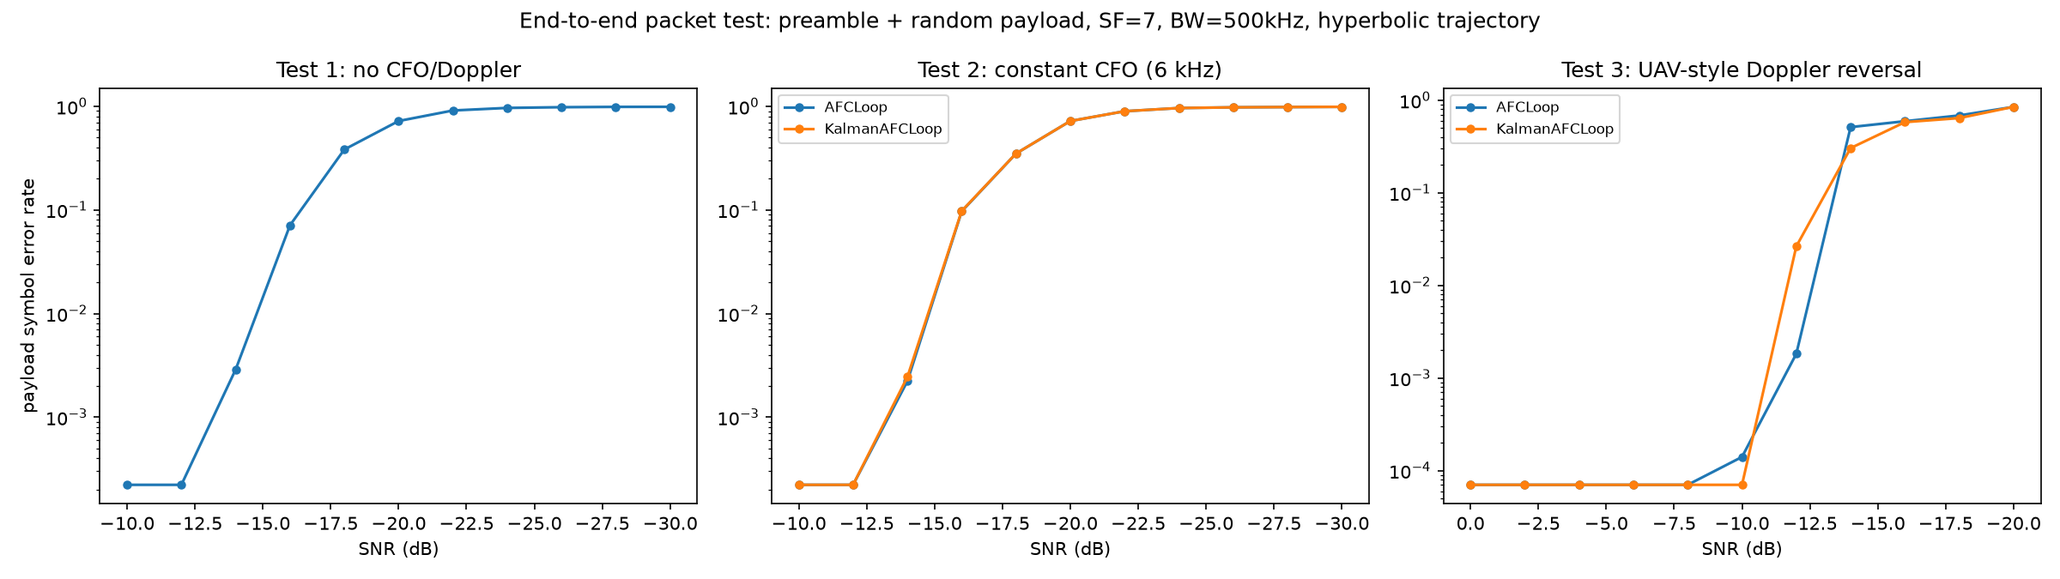
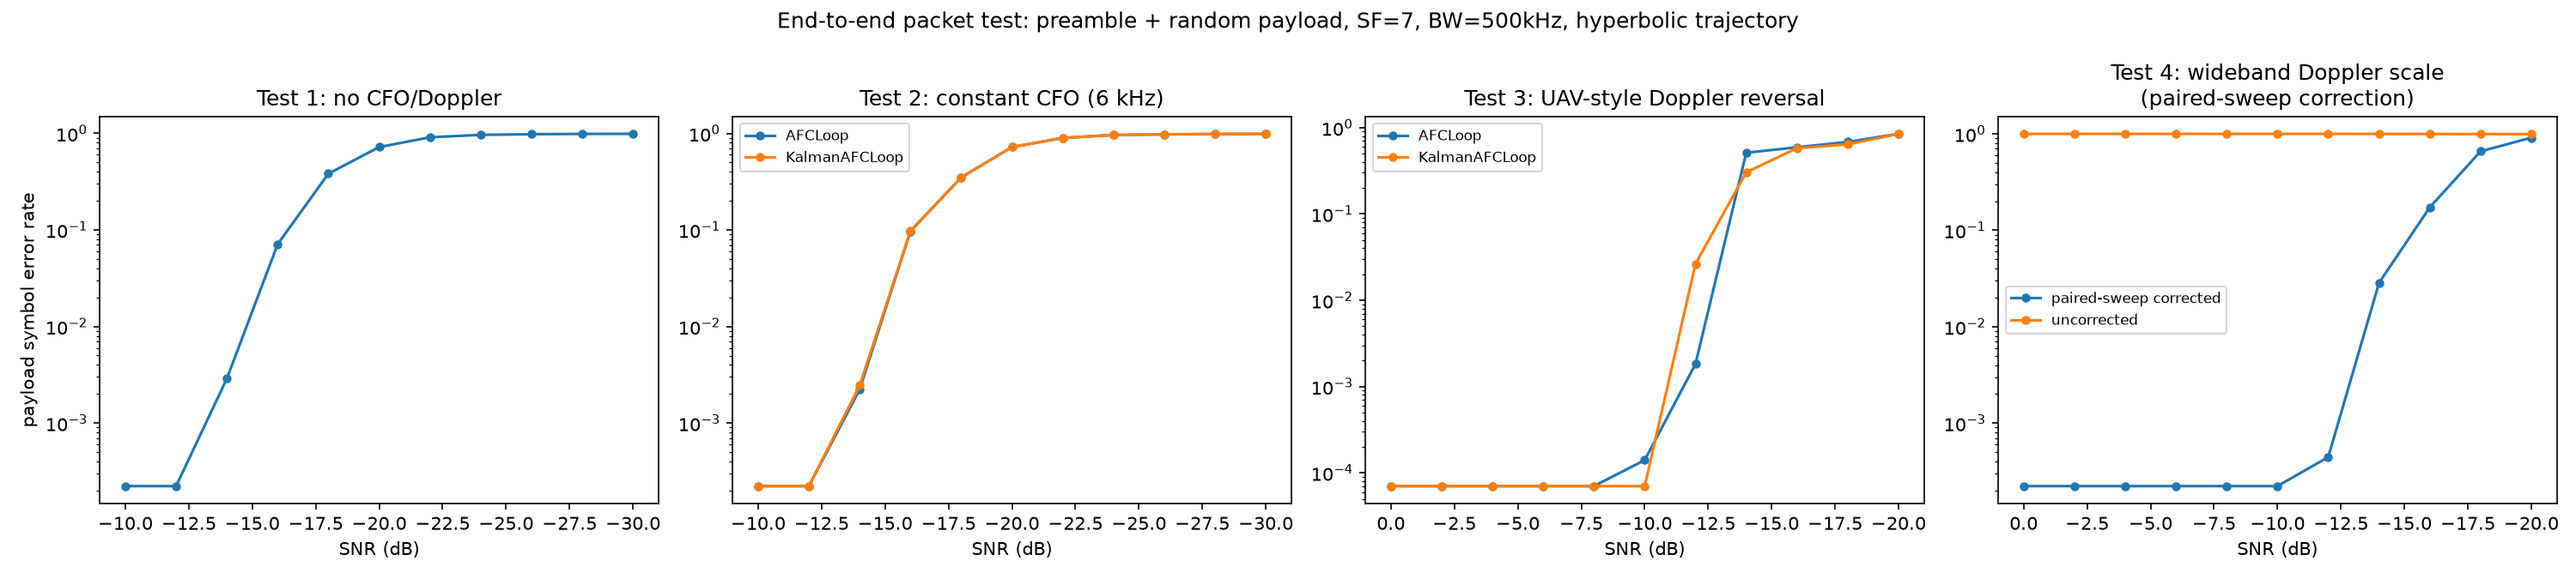
Add Test 4: paired-sweep Doppler correction in the end-to-end packet test
Extends examples/packet_experiments.py with a fourth packet-level test,
checking whether nlfsc_lora.paired_sweep's DHFM-style paired opposite-sweep
Doppler correction (added in the previous commit, validated so far only at
the single-symbol level) holds up in a full packet: preamble framing, an
SNR sweep, the works.

Test 4 uses a genuinely different channel model from tests 1-3 (a wideband
Doppler time-scale, alpha=1.05 -- over 10x past this configuration's own
half-bin failure threshold -- rather than a narrowband constant CFO) and a
different correction mechanism (paired_sweep.acquire_doppler_scale on a
single paired up/down-sweep m=0 preamble pair, no multi-burst averaging
needed, unlike Test 2's acquisition). Measured directly: an uncorrected
receiver fails on essentially every payload symbol at every SNR tested;
correcting with the acquired alpha before an ordinary single-sweep decode
restores a clean waterfall, error-free from 40dB down to about -12dB SNR,
degrading below roughly -14dB as the paired-sweep measurement's own
coherent-integration noise floor is reached.

20_packet_level_validation.png is now a 4-panel figure. Updated
NARRATIVE.md (new Sec7.4), PAPER.md (Sec7.4), and README.md to match.
Claude-Session: https://claude.ai/code/session_01JYjBKKycGVqv95onyZBz3b

diff --git a/examples/packet_experiments.py b/examples/packet_experiments.py
@@ -1,8 +1,9 @@
 """End-to-end packet-level validation, not just single-symbol statistics: build
-an actual packet (a short preamble of repeated base symbols, LoRa-style, then a
-random payload), send it through the channel, and confirm the receiver -- this
-project's dechirp/demodulation plus the AFC/Kalman tracking built in afc.py --
-recovers the payload correctly. Three progressively harder tests, as requested:
+an actual packet (a short preamble, LoRa-style, then a random payload), send
+it through the channel, and confirm the receiver -- this project's
+dechirp/demodulation plus its Doppler-correction machinery (afc.py for
+tests 1-3, paired_sweep.py for test 4) -- recovers the payload correctly.
+Four progressively harder tests, as requested:
 
   Test 1: no CFO/Doppler at all -- the baseline. Correct decoding, repeated
           many times, then a symbol-error-rate sweep as SNR drops.
@@ -16,21 +17,34 @@ recovers the payload correctly. Three progressively harder tests, as requested:
           the sign reversal to unfold slowly enough to stay trackable (see
           19_afc_rate_of_change_limit.png's ~55 Hz/burst cliff), which is why
           this test's packet is much longer than tests 1-2's.
+  Test 4: a wideband ("true") Doppler time-scale, a different channel model
+          from tests 1-3's narrowband (constant-CFO) Doppler entirely --
+          acquired not from afc.py's machinery but from
+          nlfsc_lora.paired_sweep's DHFM-style paired opposite-sweep preamble
+          (one up-sweep burst, one down-sweep burst, both m=0), the real
+          active-sonar technique examples/run_experiments.py's
+          21_paired_sweep_doppler_correction.png already validated at the
+          single-symbol level -- this test checks it holds up in a full
+          packet, not just isolated symbols.
 
 SF=7, BW=500 kHz throughout -- a standard LoRa bandwidth option this project
 hadn't exercised before (everything else in run_experiments.py uses 125 kHz).
-The preamble is a simplified stand-in for real LoRa framing: N_PREAMBLE copies
-of the unshifted (m=0) base symbol, the same concept as LoRa's preamble
-up-chirps, generalized to any trajectory shape -- not a bit-accurate
-reproduction of the real sync-word/SFD convention, which doesn't bear on the
-trajectory-shape question this project is actually about.
+Tests 1-3's preamble is a simplified stand-in for real LoRa framing:
+N_PREAMBLE copies of the unshifted (m=0) base symbol, the same concept as
+LoRa's preamble up-chirps, generalized to any trajectory shape -- not a
+bit-accurate reproduction of the real sync-word/SFD convention, which doesn't
+bear on the trajectory-shape question this project is actually about. Test 4
+uses a different, shorter preamble (one up-sweep + one down-sweep m=0 burst,
+paired_sweep.py's own acquisition unit) -- see its own docstring.
 
-Reuses nlfsc_lora/afc.py::run_afc_sequence unchanged: a "packet" here is just
-a longer true_symbols sequence (preamble zeros + random payload) fed through
-the exact same acquire-then-track pipeline already built and tested for
-Chapter 6's AFC figures -- no new tracking logic, only a new way of framing
-and grading what's fed into it (only the payload portion counts toward SER;
-the preamble's own decode is incidental).
+Tests 1-3 reuse nlfsc_lora/afc.py::run_afc_sequence unchanged: a "packet"
+there is just a longer true_symbols sequence (preamble zeros + random
+payload) fed through the exact same acquire-then-track pipeline already
+built and tested for Chapter 6's AFC figures -- no new tracking logic, only
+a new way of framing and grading what's fed into it (only the payload
+portion counts toward SER; the preamble's own decode is incidental). Test 4
+uses nlfsc_lora/paired_sweep.py instead -- a different correction mechanism
+for a different (wideband, not narrowband) Doppler model entirely.
 
 Run with: python examples/packet_experiments.py
 """
@@ -42,7 +56,10 @@ import matplotlib.pyplot as plt
 import numpy as np
 
 from nlfsc_lora.afc import AFCLoop, KalmanAFCLoop, measurement_noise_for, run_afc_sequence
-from nlfsc_lora.chirp import ChirpConfig
+from nlfsc_lora.channel import apply_doppler_scale, awgn
+from nlfsc_lora.chirp import ChirpConfig, base_waveform, symbol_waveform
+from nlfsc_lora.paired_sweep import acquire_doppler_scale, correct_doppler_scale, reversed_trajectory
+from nlfsc_lora.receiver import fft_correlation_demod
 from nlfsc_lora.trajectories import TRAJECTORIES, hyperbolic_center_freq
 
 OUT_DIR = os.path.join(os.path.dirname(__file__), "output")
@@ -60,6 +77,17 @@ def make_cfg(traj: str) -> tuple:
     f_center = hyperbolic_center_freq(BANDWIDTH) if traj == "hyperbolic" else 0.0
     cfg = ChirpConfig(sf=SF, bandwidth=BANDWIDTH, sample_rate=OVERSAMPLING * BANDWIDTH, g=g, f_center=f_center)
     return cfg, dg
+
+
+def make_cfg_pair(q: float = 1.0 / 3.0) -> tuple:
+    """Up-sweep and down-sweep hyperbolic ChirpConfigs sharing the same band,
+    for Test 4's paired-sweep preamble (nlfsc_lora.paired_sweep)."""
+    g_up, dg_up = TRAJECTORIES["hyperbolic"]
+    g_down = reversed_trajectory(g_up)
+    f_center = hyperbolic_center_freq(BANDWIDTH, q)
+    cfg_up = ChirpConfig(sf=SF, bandwidth=BANDWIDTH, sample_rate=OVERSAMPLING * BANDWIDTH, g=g_up, f_center=f_center)
+    cfg_down = ChirpConfig(sf=SF, bandwidth=BANDWIDTH, sample_rate=OVERSAMPLING * BANDWIDTH, g=g_down, f_center=f_center)
+    return cfg_up, cfg_down
 
 
 def run_packet(cfg, dg, n_payload: int, true_cfo_sequence, snr_db: float, seed: int,
@@ -250,16 +278,94 @@ def test3_uav_doppler():
     return snr_range, results
 
 
-def plot_all(t1, t2, t3):
+def run_packet_paired_sweep(cfg_up, cfg_down, n_payload: int, alpha_true: float, q: float, snr_db: float, seed: int):
+    """One packet under Test 4's channel model: a wideband Doppler time-scale
+    alpha_true (channel.apply_doppler_scale), not tests 1-3's narrowband
+    constant CFO. Preamble is a single paired-sweep pair (one up-sweep, one
+    down-sweep, both m=0) -- already validated robust to well below -10dB SNR
+    with just one pair (nlfsc_lora.paired_sweep, 21_paired_sweep_doppler_correction.png),
+    unlike sync.py's joint_cfo_symbol_search acquisition which needed several
+    preamble bursts averaged together (Test 2). Returns both the paired-sweep-
+    corrected and the uncorrected payload decode, so the same packet-level
+    comparison 21 already made at the single-symbol level can be checked here
+    too."""
+    rng = np.random.default_rng(seed)
+    rx_pre_up = awgn(apply_doppler_scale(base_waveform(cfg_up), alpha_true), snr_db, rng)
+    rx_pre_down = awgn(apply_doppler_scale(base_waveform(cfg_down), alpha_true), snr_db, rng)
+    alpha_hat = acquire_doppler_scale(rx_pre_up, rx_pre_down, cfg_up, cfg_down, q)
+
+    payload = rng.integers(0, cfg_up.M, n_payload)
+    decoded_corrected = np.empty(n_payload, dtype=int)
+    decoded_uncorrected = np.empty(n_payload, dtype=int)
+    for i, m_true in enumerate(payload):
+        rx = awgn(apply_doppler_scale(symbol_waveform(cfg_up, int(m_true)), alpha_true), snr_db, rng)
+        decoded_uncorrected[i] = fft_correlation_demod(rx, cfg_up)
+        decoded_corrected[i] = fft_correlation_demod(correct_doppler_scale(rx, alpha_hat), cfg_up)
+    return decoded_corrected, decoded_uncorrected, payload
+
+
+def test4_wideband_doppler_scale():
+    """Test 4: a wideband Doppler time-scale (not tests 1-3's narrowband
+    constant CFO), corrected with nlfsc_lora.paired_sweep's DHFM-style paired
+    opposite-sweep preamble rather than afc.py's machinery -- the real
+    active-sonar technique from "How Real HFM Sonar and Radar Systems
+    Actually Handle Doppler" / examples/run_experiments.py's
+    21_paired_sweep_doppler_correction.png, now checked in a full packet
+    rather than isolated symbols.
+
+    alpha_true=1.05 is comfortably past this configuration's own half-bin
+    failure threshold (~1.004, from the same n_samples/M relationship
+    08_lora_ser_vs_doppler_scale.png documents) -- an uncorrected receiver
+    should fail on essentially every payload symbol."""
+    print("\n=== Test 4: wideband Doppler scale, paired-sweep correction ===")
+    q = 1.0 / 3.0
+    cfg_up, cfg_down = make_cfg_pair(q)
+    alpha_true = 1.05
+    print(f"alpha_true={alpha_true} (half-bin failure threshold at this SF/BW is only "
+          f"~{1.0 + 1.0 / (2 * cfg_up.M):.4f})")
+
+    total_corrected, total_uncorrected = 0, 0
+    n_trials_check = 100
+    for t in range(n_trials_check):
+        dec_c, dec_u, payload = run_packet_paired_sweep(cfg_up, cfg_down, N_PAYLOAD, alpha_true, q, snr_db=40.0, seed=t)
+        total_corrected += int(np.sum(dec_c != payload))
+        total_uncorrected += int(np.sum(dec_u != payload))
+    print(f"noiseless-ish (40dB) correctness check: corrected {total_corrected} errors, "
+          f"uncorrected {total_uncorrected} errors, out of {n_trials_check * N_PAYLOAD} across {n_trials_check} packets")
+    assert total_corrected == 0, "Test 4 baseline should decode correctly once paired-sweep corrected"
+    assert total_uncorrected > 0.9 * n_trials_check * N_PAYLOAD, \
+        "an uncorrected receiver should fail on essentially every payload symbol at this alpha"
+
+    snr_range = np.arange(-20, 2, 2)
+    n_trials = 150
+    t0 = time.time()
+    ser_corrected = np.empty(len(snr_range))
+    ser_uncorrected = np.empty(len(snr_range))
+    for i, snr_db in enumerate(snr_range):
+        errs_c, errs_u = 0, 0
+        for t in range(n_trials):
+            dec_c, dec_u, payload = run_packet_paired_sweep(cfg_up, cfg_down, N_PAYLOAD, alpha_true, q, snr_db, seed=t)
+            errs_c += int(np.sum(dec_c != payload))
+            errs_u += int(np.sum(dec_u != payload))
+        total = n_trials * N_PAYLOAD
+        ser_corrected[i] = errs_c / total
+        ser_uncorrected[i] = errs_u / total
+    print(f"SER sweep done in {time.time()-t0:.1f}s")
+    return snr_range, {"paired-sweep corrected": ser_corrected, "uncorrected": ser_uncorrected}
+
+
+def plot_all(t1, t2, t3, t4):
     os.makedirs(OUT_DIR, exist_ok=True)
     snr1, ser1 = t1
     snr2, res2 = t2
     snr3, res3 = t3
+    snr4, res4 = t4
     floor1 = 1.0 / (150 * N_PAYLOAD)
     floor2 = floor1
     floor3 = 1.0 / (20 * 712)
+    floor4 = 1.0 / (150 * N_PAYLOAD)
 
-    fig, axes = plt.subplots(1, 3, figsize=(16, 4.5))
+    fig, axes = plt.subplots(1, 4, figsize=(20, 4.5))
     axes[0].plot(snr1, np.maximum(ser1, floor1), marker="o", ms=4)
     axes[0].set(xlabel="SNR (dB)", ylabel="payload symbol error rate", yscale="log",
                 title="Test 1: no CFO/Doppler")
@@ -274,6 +380,11 @@ def plot_all(t1, t2, t3):
     axes[2].set(xlabel="SNR (dB)", yscale="log", title="Test 3: UAV-style Doppler reversal")
     axes[2].legend(fontsize=8)
 
+    for name, ser in res4.items():
+        axes[3].plot(snr4, np.maximum(ser, floor4), marker="o", ms=4, label=name)
+    axes[3].set(xlabel="SNR (dB)", yscale="log", title="Test 4: wideband Doppler scale\n(paired-sweep correction)")
+    axes[3].legend(fontsize=8)
+
     for ax in axes:
         ax.invert_xaxis()  # read left-to-right as a channel degrading over time, matching 14_ser_vs_snr_all_shapes.png
 
@@ -287,7 +398,8 @@ def main():
     t1 = test1_no_doppler()
     t2 = test2_constant_doppler()
     t3 = test3_uav_doppler()
-    plot_all(t1, t2, t3)
+    t4 = test4_wideband_doppler_scale()
+    plot_all(t1, t2, t3, t4)
     print(f"\nWrote figure to {OUT_DIR}/20_packet_level_validation.png")
 
 

diff --git a/NARRATIVE.md b/NARRATIVE.md
@@ -808,8 +808,9 @@ project's specific simulation.
 Everything so far has been checked symbol by symbol, or burst by burst in
 isolation. A real receiver has to do all of it at once: recognize a
 packet, decode a payload correctly, and if there's Doppler, track it
-through the whole thing. Three tests, each harder than the last, all at
-SF=7 and 500 kHz bandwidth — a bandwidth this project hadn't used before
+through the whole thing. Four tests, each harder than the last (or, for
+the fourth, just a different channel model entirely), all at SF=7 and
+500 kHz bandwidth — a bandwidth this project hadn't used before
 (everything earlier used 125 kHz).
 
 The packet itself is a simplified stand-in for real LoRa framing: a short
@@ -826,7 +827,7 @@ every payload symbol comes back correct, every time — 200 packets,
 6000 payload symbols, zero errors. Dropping the SNR reproduces the same
 waterfall shape established back in Chapter 4:
 
-![Payload symbol error rate vs. SNR for all three packet tests](pictures/20_packet_level_validation.png)
+![Payload symbol error rate vs. SNR for all four packet tests](pictures/20_packet_level_validation.png)
 
 *(Left panel.)* Nothing new here mathematically — it's the same decoder as
 always — but it confirms the whole pipeline (preamble, payload framing,
@@ -938,6 +939,32 @@ same processing gain the rest of the receiver already relies on, dual-edge
 Doppler sign reversal, at the same kind of negative SNR this project's
 other packet tests already operate at — not stalling out at the edge of
 the noise floor the way the original measurement quietly did.
+
+### 7.4 A wideband Doppler scale, corrected the DHFM way
+
+A genuinely different channel model from the first three tests: not a
+narrowband constant-CFO offset, but a wideband Doppler *time-scale* —
+the effect Chapter 5.2 and the "Building the Same Thing" section further
+below are actually about. Correcting it doesn't use `afc.py` at all;
+it uses `nlfsc_lora.paired_sweep`'s DHFM-style paired opposite-sweep
+preamble, the real active-sonar technique described in "How Real HFM
+Sonar and Radar Systems Actually Handle Doppler." That section and
+"Building the Same Thing" validated the idea at the single-symbol level
+(`21_paired_sweep_doppler_correction.png`); this test checks whether it
+holds up once it's just one more piece of a full packet, preamble
+framing and all.
+
+It does, and by the same wide margin. At a Doppler scale of $\alpha=1.05$
+— past even this configuration's roughly half-bin failure threshold
+($\alpha \approx 1.004$) by more than ten times over — an uncorrected
+receiver fails on essentially every payload symbol, at every SNR tested.
+Acquiring $\alpha$ from a single paired up/down-sweep preamble pair (not
+even the multi-burst averaging Test 2's acquisition needed) and
+correcting each payload burst before an ordinary decode brings that back
+to a clean waterfall, error-free from 40 dB down to about −12 dB, only
+degrading below roughly −14 dB as the paired-sweep measurement itself
+runs into its own coherent-integration noise floor — the same kind of
+floor `full_symbol_cfo_estimate` has, for the same underlying reason.
 
 ---
 
@@ -1165,6 +1192,13 @@ same thing" might look like) has a real, characterized limitation; the
 version that matches how real systems actually deploy the trick — on a
 known reference, correcting data afterward — works cleanly. That
 distinction was itself worth finding out, not assumed going in.
+
+This held up outside the single-symbol test too. Chapter 7.4 wires the
+same acquire-then-correct pattern into a full packet — preamble framing,
+an SNR sweep, the whole pipeline — and finds the same result: a
+completely failing uncorrected receiver at $\alpha=1.05$ restored to a
+clean waterfall down to about $-12$ dB SNR by a single paired-sweep
+preamble pair, no multi-burst averaging needed.
 
 ---
 

diff --git a/PAPER.md b/PAPER.md
@@ -488,12 +488,12 @@ Implementation: `nlfsc_lora/afc.py::full_symbol_cfo_estimate`,
 
 Every result above was checked per symbol or per burst. A receiver has to
 combine all of it at once: recognize a packet, decode the payload, and,
-under Doppler, acquire and track through the whole thing. Three tests
+under Doppler, acquire and track through the whole thing. Four tests
 (`examples/packet_experiments.py`), SF=7, BW=500 kHz — untested elsewhere
 in this project, which otherwise uses 125 kHz — each sending a simplified
-preamble (`N_PREAMBLE` copies of the base $m=0$ symbol, standing in for
-LoRa's own preamble up-chirps, not a bit-accurate sync-word/SFD
-reproduction) followed by a random payload, graded only on the payload.
+preamble standing in for LoRa's own preamble up-chirps (not a
+bit-accurate sync-word/SFD reproduction) followed by a random payload,
+graded only on the payload.
 
 **7.1 No Doppler.** Baseline: 200 packets, 6000 payload symbols, zero
 errors at 40 dB SNR; the SER-vs-SNR sweep reproduces §4's waterfall shape.
@@ -565,6 +565,27 @@ Implementation: `examples/packet_experiments.py`; `nlfsc_lora/afc.py::run_afc_se
 Tests: `tests/test_afc.py::test_multi_burst_acquisition_beats_single_burst_at_low_snr`,
 `test_kalman_set_acquired_resets_covariance_not_just_cfo`,
 `test_afc_tracks_a_doppler_reversal_at_negative_snr`.
+
+**7.4 A wideband Doppler scale, DHFM-style paired-sweep correction.** A
+different channel model from §7.1–7.3's narrowband constant CFO: a
+wideband Doppler time-scale $\alpha$ (§5.2), corrected not with `afc.py`
+but with §10's `nlfsc_lora/paired_sweep.py` — the real active-sonar
+technique from §9, already validated at the single-symbol level
+(`examples/output/21_paired_sweep_doppler_correction.png`) but not yet
+inside a full packet. At $\alpha=1.05$ — more than $10\times$ past this
+configuration's own half-bin failure threshold ($\alpha \approx 1.004$)
+— an uncorrected receiver fails on essentially every payload symbol at
+every SNR. Acquiring $\alpha$ from a single paired up/down-sweep
+preamble pair (no multi-burst averaging needed, unlike §7.2's
+acquisition) and correcting each payload burst before an ordinary
+single-sweep decode restores a clean waterfall, error-free from 40 dB
+down to $\approx -12$ dB, degrading below $\approx -14$ dB as
+`acquire_doppler_scale`'s own coherent-integration noise floor is
+reached — the same kind of floor `full_symbol_cfo_estimate` has, for the
+same reason (§6.5).
+
+Implementation: `examples/packet_experiments.py::test4_wideband_doppler_scale`;
+`nlfsc_lora/paired_sweep.py::acquire_doppler_scale`, `correct_doppler_scale`.
 
 ---
 
@@ -775,7 +796,10 @@ own noise floor (§6.5) applies here too, for the same reason
 Implementation: `nlfsc_lora/paired_sweep.py` (`reversed_trajectory`,
 `raw_lag_estimate`, `combine_paired_lags`, `doppler_scale_from_bias`,
 `acquire_doppler_scale`, `correct_doppler_scale`, `paired_sweep_decode`).
-Tests: `tests/test_paired_sweep.py`.
+Tests: `tests/test_paired_sweep.py`. §7.4 wires the same acquire-then-correct
+pattern into a full packet (preamble framing, SNR sweep) and finds the same
+result: a completely failing uncorrected receiver restored to a clean
+waterfall by a single preamble pair, no multi-burst averaging needed.
 
 ---
 

diff --git a/README.md b/README.md
@@ -452,7 +452,7 @@ Everything above is checked per symbol or per burst. `examples/packet_experiment
 combines it into an actual packet: a simplified preamble (`N_PREAMBLE`
 copies of the base `m=0` symbol -- the same idea as LoRa's own preamble
 up-chirps, not a bit-accurate sync-word/SFD reproduction) followed by a
-random payload, decoded and graded only on the payload. Three tests at
+random payload, decoded and graded only on the payload. Four tests at
 SF=7, BW=500 kHz -- a bandwidth this project hadn't used elsewhere (125
 kHz everywhere above) -- each with a noiseless correctness check first,
 then an SER-vs-SNR sweep:
@@ -503,6 +503,21 @@ then an SER-vs-SNR sweep:
   FFT-threshold effect at very low SNR, the expected limit of any
   coherent-integration estimator, just roughly twenty decibels lower than
   where the original measurement gave out.
+- Fourth panel, a genuinely different channel model: a wideband Doppler
+  *time-scale* (alpha=1.05, over 10x past this configuration's own
+  half-bin failure threshold of alpha~1.004) instead of tests
+  1-3's narrowband constant CFO, corrected with `nlfsc_lora.paired_sweep`'s
+  DHFM-style paired opposite-sweep preamble (the real active-sonar
+  technique from "How this compares to the real world" below) rather than
+  `afc.py`. An uncorrected receiver fails on essentially every payload
+  symbol at every SNR tested; acquiring `alpha` from a *single* paired
+  up/down-sweep preamble pair (no multi-burst averaging needed, unlike
+  the middle panel's acquisition) and correcting each payload burst
+  before an ordinary decode restores a clean waterfall, error-free down
+  to about -12dB SNR before the paired-sweep measurement's own
+  coherent-integration floor is reached (~-14dB and below) -- confirming
+  `21_paired_sweep_doppler_correction.png`'s single-symbol result holds
+  up in a full packet too.
 
 Run with `python examples/packet_experiments.py`.
 
@@ -536,7 +551,9 @@ rather than duplicated here:
   the fix that did (applying it to a known preamble and correcting
   payload bursts afterward, the way real systems actually use it). See
   NARRATIVE.md's "Building the Same Thing: Paired-Sweep Doppler
-  Correction" / PAPER.md §10.
+  Correction" / PAPER.md §10 -- and the "End-to-end packet test" section
+  below (Test 4) for confirmation this holds up in a full packet, not
+  just isolated symbols.
 
 ## Extending it
 
